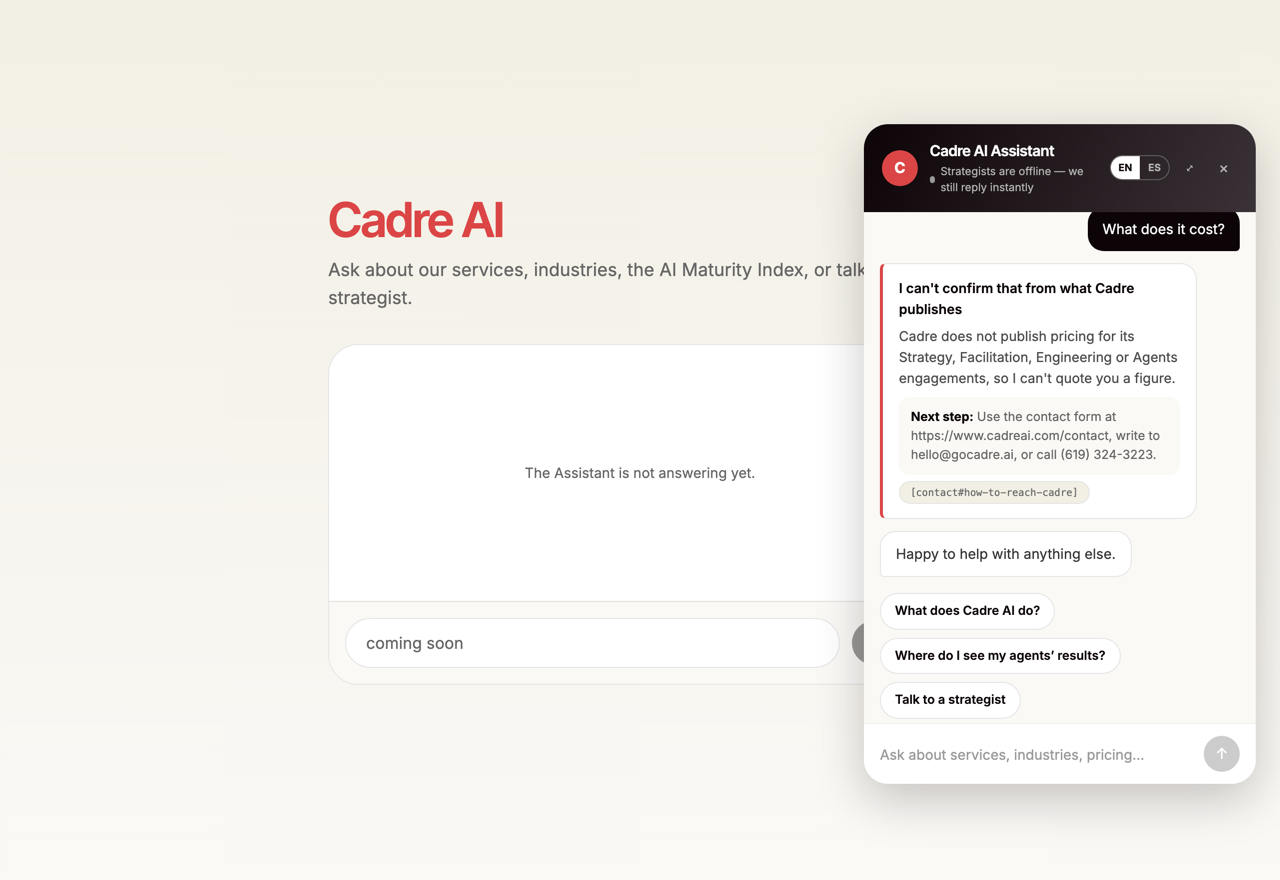
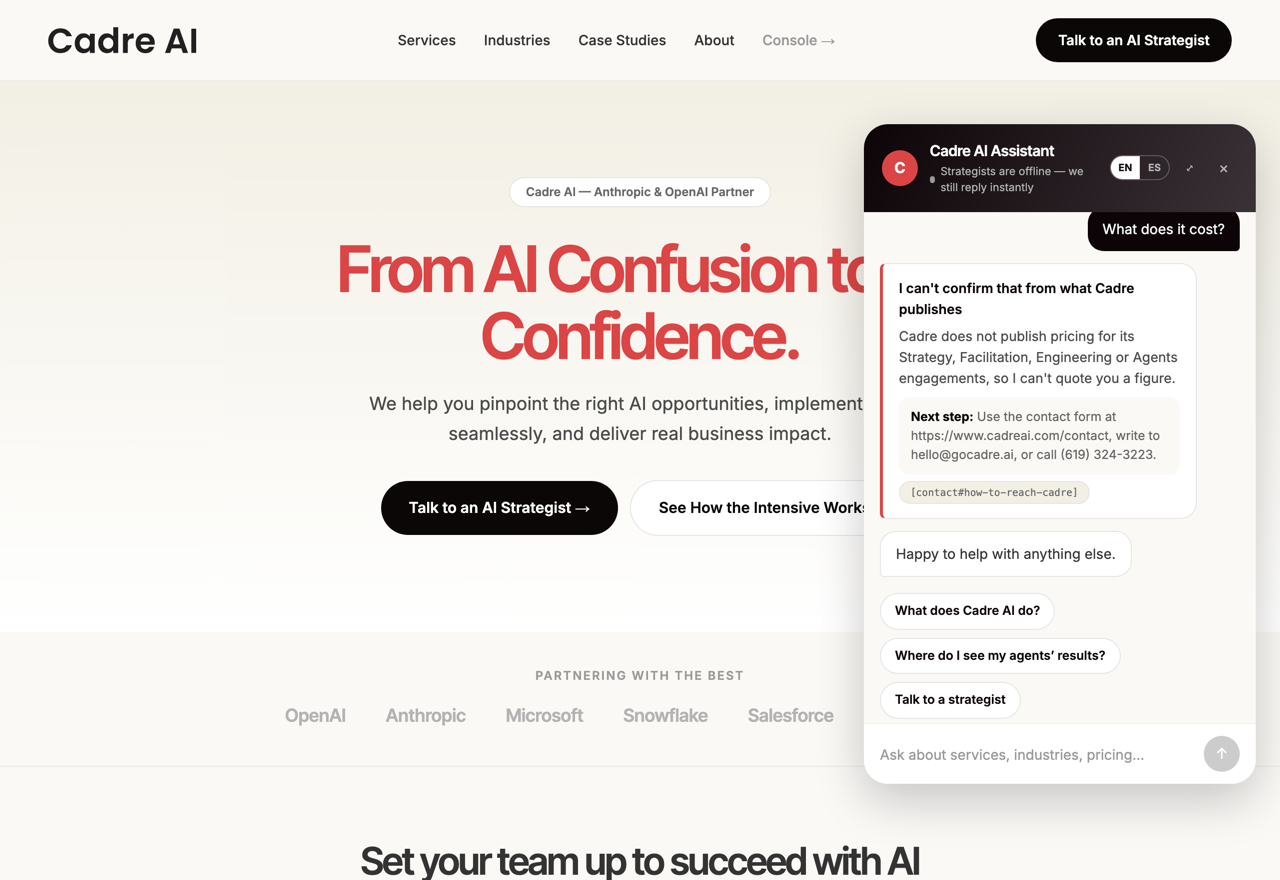
fix(web): open the widget from the host page, and make it usable from the keyboard
Ticket 07's three "Talk to an AI Strategist" controls dispatch `cadre:open-chat` and nobody
was listening, so every call to action on the demo page was dead. The widget subscribes on
mount now; when it is already open the event just moves focus to the composer.

Accessibility, the cheap half: Escape closes the panel, opening moves focus into the
composer and closing puts it back on the launcher, EN/ES is two buttons carrying
`aria-pressed` rather than one ambiguous toggle, and the typing indicator's label comes
from the string table — it announced itself in English to a Spanish Visitor.

Screenshots retaken over the merged host page; the old pair was shot over ticket 01's
placeholder.

Refs: .scratch/cadre-support-agent/issues/02-first-turn-stub-provider.md

diff --git a/web/src/chat/ChatWidget.tsx b/web/src/chat/ChatWidget.tsx
@@ -9,7 +9,7 @@
  * The presence line shows the offline copy until ticket 11 wires Availability.
  */
 
-import { useEffect, useRef, useState } from 'react'
+import { useCallback, useEffect, useRef, useState } from 'react'
 
 import './chat.css'
 import { MessageView } from './MessageView'
@@ -18,6 +18,16 @@ import { useChat } from './useChat'
 
 const DOCKED = 'right-6 bottom-24 h-[min(660px,calc(100vh-130px))] w-[392px]'
 const EXPANDED = 'inset-5'
+
+/**
+ * The host page's "Talk to an AI Strategist" controls do not know about this component; they
+ * announce intent on the window and the widget listens. That keeps ticket 07's page and this
+ * widget independently mountable — the page works with no widget, the widget with no page.
+ * Dispatched from `web/src/site/HostPage.tsx`.
+ */
+export const OPEN_CHAT_EVENT = 'cadre:open-chat'
+
+const LANGUAGES: Language[] = ['en', 'es']
 
 export function ChatWidget() {
   const [open, setOpen] = useState(false)
@@ -30,18 +40,56 @@ export function ChatWidget() {
   const { state, send } = useChat(chromeFor('en').greeting, chrome.connectionError)
 
   const transcript = useRef<HTMLDivElement>(null)
+  const composer = useRef<HTMLInputElement>(null)
+  const launcher = useRef<HTMLButtonElement>(null)
+  const wasOpen = useRef(false)
+
   useEffect(() => {
     transcript.current?.scrollTo({ top: transcript.current.scrollHeight })
   }, [state.messages])
+
+  // Opening moves focus into the composer, closing puts it back on the launcher — otherwise
+  // a keyboard Visitor is dropped at the top of the document by both.
+  useEffect(() => {
+    if (open) {
+      composer.current?.focus()
+    } else if (wasOpen.current) {
+      launcher.current?.focus()
+    }
+    wasOpen.current = open
+  }, [open])
+
+  useEffect(() => {
+    function openFromHostPage() {
+      setOpen(true)
+      // Already open: the effect above will not re-run, so ask for focus here.
+      composer.current?.focus()
+    }
+    window.addEventListener(OPEN_CHAT_EVENT, openFromHostPage)
+    return () => window.removeEventListener(OPEN_CHAT_EVENT, openFromHostPage)
+  }, [])
+
+  useEffect(() => {
+    if (!open) {
+      return
+    }
+    function closeOnEscape(event: KeyboardEvent) {
+      if (event.key === 'Escape') {
+        setOpen(false)
+      }
+    }
+    window.addEventListener('keydown', closeOnEscape)
+    return () => window.removeEventListener('keydown', closeOnEscape)
+  }, [open])
 
   // A chip disappears once it has been used; the others stay, as in the artboard.
   const quickReplies = chrome.quickReplies.filter((quick) => !usedQuickReplies.includes(quick.id))
   const canSend = draft.trim().length > 0 && !state.pending
 
-  function submit(text: string) {
+  const submit = useCallback((text: string) => {
     setDraft('')
     void send(text)
-  }
+  }, [send])
 
   function submitQuickReply(id: string, label: string) {
     setUsedQuickReplies([...usedQuickReplies, id])
@@ -51,6 +99,7 @@ export function ChatWidget() {
   if (!open) {
     return (
       <button
+        ref={launcher}
         type="button"
         aria-label={chrome.openChat}
         onClick={() => setOpen(true)}
@@ -80,19 +129,27 @@ export function ChatWidget() {
           </div>
         </div>
         <div className="flex items-center gap-1.5">
-          <button
-            type="button"
+          <div
+            role="group"
             aria-label={chrome.language}
-            onClick={() => setLanguage(language === 'en' ? 'es' : 'en')}
             className="flex overflow-hidden rounded-[48px] border border-white/25 text-[10px] font-bold"
           >
-            <span className={language === 'en' ? 'bg-white px-2 py-1 text-[#0c0407]' : 'px-2 py-1 text-[#b3b3b3]'}>
-              EN
-            </span>
-            <span className={language === 'es' ? 'bg-white px-2 py-1 text-[#0c0407]' : 'px-2 py-1 text-[#b3b3b3]'}>
-              ES
-            </span>
-          </button>
+            {LANGUAGES.map((option) => (
+              <button
+                key={option}
+                type="button"
+                aria-pressed={language === option}
+                onClick={() => setLanguage(option)}
+                className={
+                  language === option
+                    ? 'bg-white px-2 py-1 text-[#0c0407]'
+                    : 'px-2 py-1 text-[#b3b3b3]'
+                }
+              >
+                {option.toUpperCase()}
+              </button>
+            ))}
+          </div>
           <button
             type="button"
             aria-label={expanded ? chrome.collapse : chrome.expand}
@@ -119,7 +176,7 @@ export function ChatWidget() {
         className="flex min-h-0 flex-1 flex-col gap-3 overflow-y-auto bg-[#faf9f6] px-4 pt-[18px] pb-2"
       >
         {state.messages.map((message) => (
-          <MessageView key={message.id} message={message} />
+          <MessageView key={message.id} message={message} typingLabel={chrome.typing} />
         ))}
       </div>
 
@@ -149,6 +206,7 @@ export function ChatWidget() {
         }}
       >
         <input
+          ref={composer}
           type="text"
           aria-label={chrome.placeholder}
           placeholder={chrome.placeholder}

diff --git a/web/src/chat/strings.ts b/web/src/chat/strings.ts
@@ -25,6 +25,7 @@ export interface Chrome {
   collapse: string
   send: string
   language: string
+  typing: string
   connectionError: string
 }
 
@@ -47,6 +48,7 @@ const EN: Chrome = {
   collapse: 'Shrink',
   send: 'Send',
   language: 'Language',
+  typing: 'The Assistant is typing',
   connectionError:
     'I lost the connection before I could answer. Please try again — or reach the team at ' +
     'hello@gocadre.ai or (619) 324-3223.',
@@ -71,6 +73,7 @@ const ES: Chrome = {
   collapse: 'Reducir',
   send: 'Enviar',
   language: 'Idioma',
+  typing: 'El asistente está escribiendo',
   connectionError:
     'Perdí la conexión antes de poder responder. Inténtalo de nuevo — o escribe a ' +
     'hello@gocadre.ai o llama al (619) 324-3223.',

diff --git a/web/src/chat/MessageView.tsx b/web/src/chat/MessageView.tsx
@@ -24,7 +24,7 @@ function Citations({ ids }: { ids: string[] }) {
   )
 }
 
-export function MessageView({ message }: { message: Message }) {
+export function MessageView({ message, typingLabel }: { message: Message; typingLabel: string }) {
   const alignment = message.role === 'visitor' ? 'items-end' : 'items-start'
 
   return (
@@ -46,7 +46,7 @@ export function MessageView({ message }: { message: Message }) {
 
       {message.kind === 'typing' && (
         <div
-          aria-label="The Assistant is typing"
+          aria-label={typingLabel}
           className="flex gap-[5px] rounded-[16px_16px_16px_4px] border border-[#e5e5e5] bg-white px-4 py-3.5"
         >
           <span className="cadre-tdot size-1.5 rounded-full bg-[#999]" />
